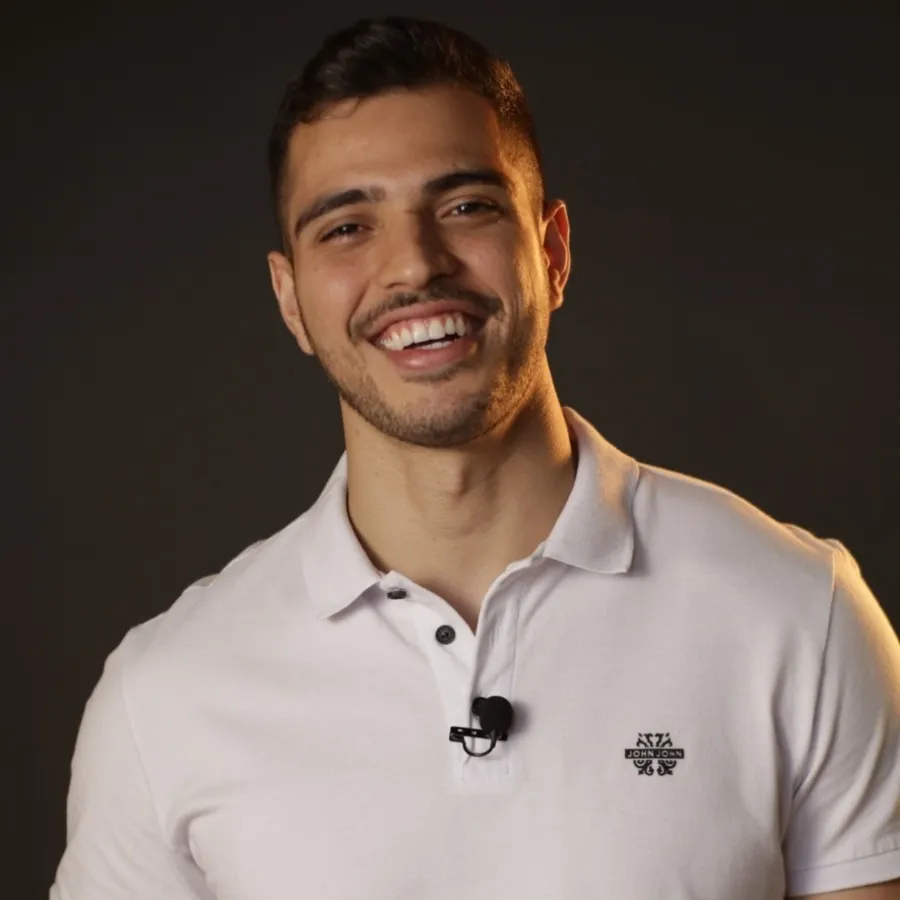
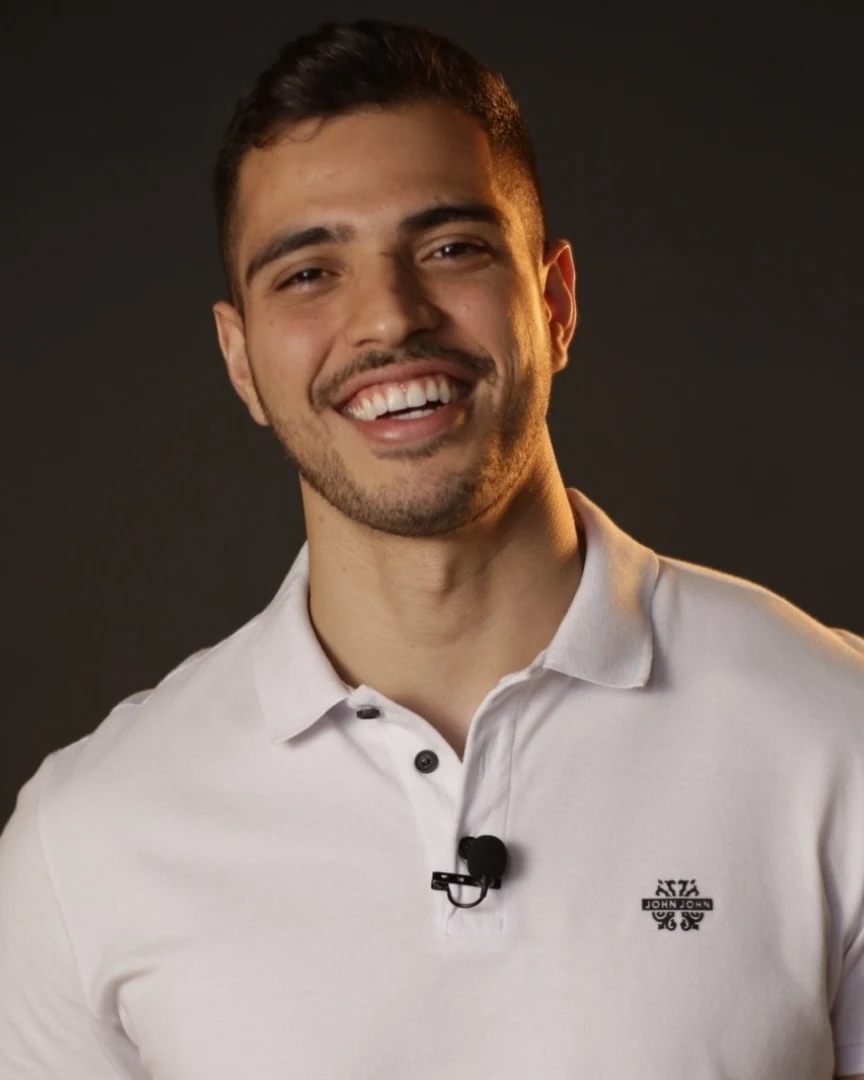
Foto em alta e maior, faixa com ícones, borda de luz nos serviços, botões que crescem, Comprar E-Book, contato maior, mapa e rodapé menores

Changed region(s): [[0.0, 0.0622, 1.0, 1.0], [0.5312, 0.5289, 0.5625, 0.56], [0.375, 0.0311, 0.4062, 0.0622]]

diff --git a/index.html b/index.html
@@ -71,6 +71,7 @@
   @media (prefers-reduced-motion: reduce) { html { scroll-behavior: auto; } }
   body { overflow-x: clip; margin: 0; background: var(--papel); color: var(--tinta); font: 400 1.0625rem/1.65 var(--fonte); -webkit-tap-highlight-color: transparent; }
   img, svg { max-width: 100%; }
+  img { height: auto; }
   figure, blockquote { margin: 0; }
   a { color: var(--marinho); text-underline-offset: .18em; }
   a, button, input, select, label { touch-action: manipulation; }
@@ -96,9 +97,10 @@
     display: inline-flex; align-items: center; justify-content: center; gap: .55rem; max-width: 100%;
     min-height: 52px; padding: .75rem 1.35rem; border: 0; border-radius: 999px;
     background: var(--marinho); color: #fff; font: 600 1rem/1.2 var(--fonte); text-decoration: none; text-align: center; cursor: pointer;
-    transition: background-color var(--dur-ui) ease, box-shadow var(--dur-ui) ease, transform .12s var(--ease-out);
+    transition: background-color var(--dur-ui) ease, box-shadow var(--dur-ui) ease, transform .2s var(--ease-out);
   }
   .btn:hover { background: var(--marinho-2); }
+  @media (hover: hover) and (pointer: fine) { .btn:hover { transform: scale(1.04); } }
   .btn:active { transform: scale(.97); }
   .btn svg { width: 1.25em; height: 1.25em; flex: none; }
   .btn-luz { background: var(--luz); color: var(--marinho-escuro); }
@@ -155,7 +157,7 @@
   .ripado .ripa { fill: var(--salvia); }
   .ripado .ripa-luz { fill: var(--luz); }
   .abertura::before { content: ""; position: absolute; inset: 0; z-index: -1; background: linear-gradient(90deg, var(--marinho-escuro) 0%, rgba(19, 28, 56, .92) 42%, rgba(19, 28, 56, .35) 75%); }
-  .abertura-grade { display: grid; grid-template-columns: minmax(0, 1.15fr) minmax(0, .85fr); align-items: center; gap: clamp(2rem, 5vw, 4rem); min-height: clamp(540px, calc(100svh - 9rem), 760px); padding-block: clamp(3rem, 8vh, 5.5rem); }
+  .abertura-grade { display: grid; grid-template-columns: minmax(0, 1.05fr) minmax(0, .95fr); align-items: center; gap: clamp(2rem, 5vw, 4rem); min-height: clamp(540px, calc(100svh - 9rem), 760px); padding-block: clamp(3rem, 8vh, 5.5rem); }
   .abertura-texto { display: grid; grid-template-columns: minmax(0, 1fr); justify-items: start; gap: 1.4rem; min-width: 0; }
   .abertura-texto > * { max-width: 100%; }
   .abertura h1 { max-width: 13em; color: #fff; font-size: clamp(2.15rem, 1.25rem + 3.6vw, 4.2rem); font-weight: 700; line-height: 1.02; letter-spacing: -.035em; overflow-wrap: anywhere; hyphens: manual; }
@@ -166,21 +168,17 @@
   .abertura-lista li { display: inline-flex; align-items: center; gap: .5rem; }
   .abertura-lista svg { width: 1.15rem; height: 1.15rem; color: var(--luz); flex: none; }
   /* o retrato, num quadro arredondado em cima como uma porta */
-  .retrato { justify-self: center; position: relative; width: min(100%, 380px); aspect-ratio: 4 / 5; }
+  .retrato { justify-self: center; position: relative; width: min(100%, 460px); aspect-ratio: 4 / 5; }
   .retrato img { display: block; width: 100%; height: 100%; object-fit: cover; object-position: 50% 20%; border-radius: 200px 200px var(--raio) var(--raio); box-shadow: 0 40px 80px -36px rgba(0, 0, 0, .7); }
   .retrato::after { content: ""; position: absolute; left: 8%; right: 8%; bottom: -10px; height: 4px; border-radius: 4px; background: var(--luz); box-shadow: 0 0 22px 4px rgba(242, 182, 106, .55); }
-  .retrato-nota { position: absolute; left: -14%; bottom: 14%; display: grid; gap: .1rem; padding: .8rem 1rem; border-radius: 14px; background: #fff; color: var(--tinta); box-shadow: 0 18px 40px -20px rgba(0, 0, 0, .6); font-size: .9rem; line-height: 1.3; }
-  .retrato-nota strong { font-family: var(--fonte-titulo); font-size: 1.4rem; font-weight: 700; color: var(--marinho); letter-spacing: -.02em; }
   @media (max-width: 860px) {
     .abertura::before { background: linear-gradient(180deg, rgba(19, 28, 56, .35) 0%, var(--marinho-escuro) 58%); }
     .abertura-grade { grid-template-columns: minmax(0, 1fr); min-height: 0; padding-block: 1.75rem 3rem; gap: 1.5rem; }
-    .retrato { order: -1; justify-self: start; width: min(42%, 180px); }
+    .retrato { order: -1; justify-self: start; width: min(56%, 240px); }
     .retrato::after { bottom: -7px; height: 3px; }
     .abertura h1 { font-size: clamp(1.9rem, 1.25rem + 3.6vw, 2.6rem); }
-    .retrato-nota { left: auto; right: -78%; bottom: 12%; }
   }
   @media (max-width: 560px) { .abertura-lista { display: none; } .abertura-texto { gap: 1.1rem; } }
-  @media (max-width: 420px) { .retrato-nota { right: -82%; padding: .6rem .75rem; font-size: .82rem; } .retrato-nota strong { font-size: 1.15rem; } }
 
   /* entrada da abertura: o unico movimento automatico. As ripas sobem uma a uma, a luz acende, o texto entra */
   @media (prefers-reduced-motion: no-preference) {
@@ -194,16 +192,17 @@
 
   /* faixa de fatos */
   .fatos { background: var(--branco); border-bottom: 1px solid var(--linha); }
-  .fatos-grade { display: grid; grid-template-columns: repeat(3, minmax(0, 1fr)); }
-  .fato { display: grid; gap: .1rem; padding: 1.1rem 1.5rem 1.15rem 0; font-size: .95rem; color: var(--tinta-2); }
-  .fato + .fato { padding-left: 1.5rem; border-left: 1px solid var(--linha); }
+  .fatos-grade { display: grid; grid-template-columns: repeat(3, minmax(0, 1fr)); gap: 1rem; padding-block: 1.25rem; }
+  .fato { display: flex; align-items: center; justify-content: center; gap: .9rem; min-width: 0; padding: 1rem 1.2rem; border-radius: var(--raio); background: var(--nevoa); font-size: .95rem; color: var(--tinta-2); }
+  .fato:nth-child(2) { background: var(--marinho); color: #D5DBEA; }
+  .fato:nth-child(2) strong { color: #fff; }
+  .fato-icone { display: grid; place-items: center; flex: none; width: 46px; height: 46px; border-radius: 50%; background: var(--luz); color: var(--marinho-escuro); }
+  .fato-icone svg { width: 24px; height: 24px; fill: none; stroke: currentColor; stroke-width: 1.8; stroke-linecap: round; stroke-linejoin: round; }
+  .fato p { display: grid; gap: .05rem; min-width: 0; margin: 0; }
   .fato strong { color: var(--tinta); font-size: 1.02rem; font-weight: 650; }
-  .estrelas { display: inline-flex; gap: 1px; margin-right: .35rem; color: #D99A3E; vertical-align: -2px; }
-  .estrelas svg { width: 1rem; height: 1rem; }
   @media (max-width: 760px) {
-    .fatos-grade { grid-template-columns: minmax(0, 1fr); }
-    .fato { padding: .9rem 0; }
-    .fato + .fato { padding-left: 0; border-left: 0; border-top: 1px solid var(--linha); }
+    .fatos-grade { grid-template-columns: minmax(0, 1fr); padding-block: 1rem; }
+    .fato { justify-content: flex-start; }
     .fato:nth-child(n+2) { display: none; } /* no celular so a nota do Google */
   }
 
@@ -221,6 +220,20 @@
   .servicos { display: grid; grid-template-columns: repeat(12, minmax(0, 1fr)); gap: 1rem; }
   .servico { grid-column: span 4; display: grid; align-content: start; gap: .7rem; padding: 1.6rem 1.6rem 1.5rem; background: var(--branco); border-radius: var(--raio); border: 1px solid var(--linha); }
   .servico > * { min-width: 0; }
+  /* borda de luz desenhada a partir do topo, fechando embaixo */
+  @property --borda { syntax: "<angle>"; inherits: false; initial-value: 0deg; }
+  .servico { position: relative; }
+  .servico::after {
+    content: ""; position: absolute; inset: -1px; padding: 2px; border-radius: inherit; pointer-events: none;
+    background: conic-gradient(var(--luz) var(--borda), transparent 0 calc(360deg - var(--borda)), var(--luz) 0);
+    -webkit-mask: linear-gradient(#000 0 0) content-box, linear-gradient(#000 0 0); -webkit-mask-composite: xor;
+    mask: linear-gradient(#000 0 0) content-box exclude, linear-gradient(#000 0 0);
+    transition: --borda .45s var(--ease-out);
+  }
+  .servico-destaque::after { inset: 0; }
+  @media (hover: hover) and (pointer: fine) { .servico:hover::after { --borda: 180deg; } }
+  .servico:has(a:focus-visible)::after { --borda: 180deg; }
+  @media (prefers-reduced-motion: reduce) { .servico::after { transition: none; } }
   .servico-desenho { width: 64px; height: 64px; padding: 10px; border-radius: 50%; background: var(--nevoa); }
   .servico-desenho :is(path, rect, circle) { fill: none; stroke: var(--marinho); stroke-width: 1.6; stroke-linecap: round; stroke-linejoin: round; }
   .servico p { color: var(--tinta-2); }
@@ -229,7 +242,7 @@
   .servico li::before { content: ""; flex: none; width: 4px; height: .95rem; border-radius: 2px; background: var(--salvia); transform: translateY(.12rem); }
   .servico a:not(.btn) { justify-self: start; margin-top: .3rem; font-weight: 600; min-height: 44px; display: inline-flex; align-items: center; }
   /* consulta: o cartao grande, em marinho, com o ripado ao fundo */
-  .servico-destaque { grid-column: span 8; grid-row: span 2; position: relative; overflow: hidden; isolation: isolate; background: var(--marinho); border-color: var(--marinho); color: #fff; padding: clamp(1.6rem, 3.5vw, 2.6rem); align-content: space-between; }
+  .servico-destaque { grid-column: span 8; grid-row: span 2; position: relative; overflow: hidden; isolation: isolate; background: var(--marinho); border: 0; color: #fff; padding: clamp(1.6rem, 3.5vw, 2.6rem); align-content: space-between; }
   .servico-destaque h3 { color: #fff; font-size: clamp(1.6rem, 1.15rem + 1.6vw, 2.35rem); line-height: 1.08; }
   .servico-destaque p { color: #D6DBE6; font-size: 1.08rem; max-width: 34rem; }
   .servico-destaque .servico-desenho { background: rgba(242, 182, 106, .16); }
@@ -334,21 +347,22 @@
   /* ---------- onde estamos ---------- */
   .contato-grade { display: grid; grid-template-columns: minmax(0, .9fr) minmax(0, 1.1fr); gap: clamp(1.5rem, 4vw, 3rem); align-items: stretch; }
   .contato-dados { display: grid; gap: 1.5rem; align-content: start; }
-  .contato-dados h3 { font-size: 1rem; font-family: var(--fonte); font-weight: 700; color: var(--tinta); margin-bottom: .2rem; letter-spacing: 0; }
+  .contato-dados h3 { font-size: 1.12rem; font-family: var(--fonte); font-weight: 700; color: var(--tinta); margin-bottom: .2rem; letter-spacing: 0; }
+  .contato-dados p { font-size: 1.18rem; line-height: 1.55; }
   .zap-linha { display: grid; grid-template-columns: minmax(0, 1fr); }
-  .zap-linha a { font-family: var(--fonte-titulo); font-size: clamp(1.3rem, 1rem + .9vw, 1.65rem); font-weight: 700; text-decoration: none; letter-spacing: -.02em; min-height: 44px; display: inline-flex; align-items: center; }
+  .zap-linha a { font-family: var(--fonte-titulo); font-size: clamp(1.55rem, 1.1rem + 1.2vw, 2.1rem); font-weight: 700; text-decoration: none; letter-spacing: -.02em; min-height: 44px; display: inline-flex; align-items: center; }
   .zap-linha a:hover { text-decoration: underline; }
-  .zap-linha span { color: var(--tinta-2); font-size: .95rem; }
+  .zap-linha span { color: var(--tinta-2); font-size: 1.05rem; }
   .capa-mapa { position: relative; overflow: hidden; border-radius: var(--raio); min-height: 380px; background: var(--marinho-escuro); }
-  .capa-mapa > img { display: block; width: 100%; height: 100%; object-fit: cover; transition: opacity .35s var(--ease-out); }
+  .capa-mapa > img { position: absolute; inset: 0; display: block; width: 100%; height: 100%; object-fit: cover; transition: opacity .35s var(--ease-out); }
   .capa-mapa .mapa-quadro { position: absolute; inset: 0; width: 100%; height: 100%; border: 0; opacity: 0; transition: opacity .35s var(--ease-out); }
   .capa-mapa .mapa-quadro.visto { opacity: 1; }
   .capa-mapa .btn { position: absolute; left: 1rem; bottom: 1rem; transition: opacity .25s var(--ease-out), background-color var(--dur-ui) ease; }
   .capa-mapa.com-mapa > img, .capa-mapa.com-mapa .btn { opacity: 0; pointer-events: none; }
-  @media (max-width: 820px) { .contato-grade { grid-template-columns: minmax(0, 1fr); } .capa-mapa { min-height: 300px; aspect-ratio: 1; } }
+  @media (max-width: 820px) { .contato-grade { grid-template-columns: minmax(0, 1fr); } .capa-mapa { min-height: 0; height: clamp(240px, 56vw, 420px); } }
 
   /* ---------- rodape ---------- */
-  .rodape { background: var(--marinho-escuro); color: #BCC3D2; padding: 2rem 0 calc(10rem + env(safe-area-inset-bottom)); font-size: .92rem; }
+  .rodape { background: var(--marinho-escuro); color: #BCC3D2; padding: 1.6rem 0 calc(1.6rem + env(safe-area-inset-bottom)); font-size: .92rem; }
   .rodape-grade { display: flex; flex-wrap: wrap; justify-content: space-between; align-items: center; gap: .75rem 2.5rem; }
   .rodape-grade > * { min-width: 0; max-width: 100%; }
   .rodape .marca { color: #fff; }
@@ -411,16 +425,15 @@
       </div>
     </div>
     <div class="retrato" style="--i:2">
-      <img src="img/roger.webp" width="900" height="900" alt="Roger Ramos, nutricionista, sorrindo, de camisa polo branca" fetchpriority="high">
-      <p class="retrato-nota"><strong>5,0</strong>192 avaliações no Google</p>
+      <img src="img/roger.webp" width="864" height="1080" alt="Roger Ramos, nutricionista, sorrindo, de camisa polo branca" fetchpriority="high">
     </div>
   </div>
 </section>
 <div class="fatos">
   <div class="envoltorio fatos-grade">
-    <p class="fato"><strong><span class="estrelas" aria-hidden="true"><svg viewBox="0 0 24 24"><path fill="currentColor" d="m12 2.8 2.8 5.8 6.3.9-4.6 4.4 1.1 6.3L12 17.3l-5.6 2.9 1.1-6.3-4.6-4.4 6.3-.9Z"/></svg><svg viewBox="0 0 24 24"><path fill="currentColor" d="m12 2.8 2.8 5.8 6.3.9-4.6 4.4 1.1 6.3L12 17.3l-5.6 2.9 1.1-6.3-4.6-4.4 6.3-.9Z"/></svg><svg viewBox="0 0 24 24"><path fill="currentColor" d="m12 2.8 2.8 5.8 6.3.9-4.6 4.4 1.1 6.3L12 17.3l-5.6 2.9 1.1-6.3-4.6-4.4 6.3-.9Z"/></svg><svg viewBox="0 0 24 24"><path fill="currentColor" d="m12 2.8 2.8 5.8 6.3.9-4.6 4.4 1.1 6.3L12 17.3l-5.6 2.9 1.1-6.3-4.6-4.4 6.3-.9Z"/></svg><svg viewBox="0 0 24 24"><path fill="currentColor" d="m12 2.8 2.8 5.8 6.3.9-4.6 4.4 1.1 6.3L12 17.3l-5.6 2.9 1.1-6.3-4.6-4.4 6.3-.9Z"/></svg></span>5,0 no Google</strong><a href="https://www.google.com/maps/search/?api=1&amp;query=Nutricionista+Roger+Ramos+Cravinhos" target="_blank" rel="noopener">Ler as 192 avaliações</a></p>
-    <p class="fato"><strong>R. Primo Glingani, 226</strong>Cravinhos (SP)</p>
-    <p class="fato"><strong>Presencial e online</strong>Atendemos também quem mora em outra cidade</p>
+    <div class="fato"><span class="fato-icone" aria-hidden="true"><svg viewBox="0 0 24 24"><path d="m12 3 2.7 5.6 6.1.9-4.4 4.3 1 6.1L12 17l-5.4 2.9 1-6.1-4.4-4.3 6.1-.9Z"/></svg></span><p><strong>5,0 no Google</strong><a href="https://www.google.com/maps/search/?api=1&amp;query=Nutricionista+Roger+Ramos+Cravinhos" target="_blank" rel="noopener">Ler as 192 avaliações</a></p></div>
+    <div class="fato"><span class="fato-icone" aria-hidden="true"><svg viewBox="0 0 24 24"><path d="M12 21s-7-6.2-7-11.5a7 7 0 0 1 14 0C19 14.8 12 21 12 21Z"/><circle cx="12" cy="9.5" r="2.5"/></svg></span><p><strong>R. Primo Glingani, 226</strong>Cravinhos (SP)</p></div>
+    <div class="fato"><span class="fato-icone" aria-hidden="true"><svg viewBox="0 0 24 24"><rect x="3" y="4.5" width="18" height="12" rx="2"/><path d="M8.5 20h7M12 16.5V20"/></svg></span><p><strong>Presencial e online</strong>Atendemos também quem mora em outra cidade</p></div>
   </div>
 </div>
 
@@ -464,7 +477,7 @@
         <div class="ebook" data-revela>
           <svg viewBox="0 0 48 48" aria-hidden="true"><path d="M8 9h13a4 4 0 0 1 4 4v27a3 3 0 0 0-3-3H8Z"/><path d="M40 9H27a4 4 0 0 0-2 .6M40 9v28H27a3 3 0 0 0-2 .8"/><path d="M30 17h6M30 23h6"/></svg>
           <p><strong>E-book: 110 receitas calculadas para a sua dieta</strong>Receitas práticas para variar o cardápio sem sair do plano.</p>
-          <a class="btn" href="https://pay.kiwify.com.br/0I21BkY" target="_blank" rel="noopener">Comprar o e-book</a>
+          <a class="btn" href="https://pay.kiwify.com.br/0I21BkY" target="_blank" rel="noopener">Comprar E-Book</a>
         </div>
       </div>
     </div>
@@ -521,7 +534,7 @@
   <section class="secao" id="sobre" aria-labelledby="titulo-sobre">
     <div class="envoltorio sobre-grade">
       <div class="sobre-foto" data-revela>
-        <img src="img/roger.webp" width="900" height="900" alt="Retrato de Roger Ramos" loading="lazy">
+        <img src="img/roger.webp" width="864" height="1080" alt="Retrato de Roger Ramos" loading="lazy">
       </div>
       <div class="sobre-texto" data-revela style="--i:1">
         <h2 id="titulo-sobre">Quem atende</h2>
